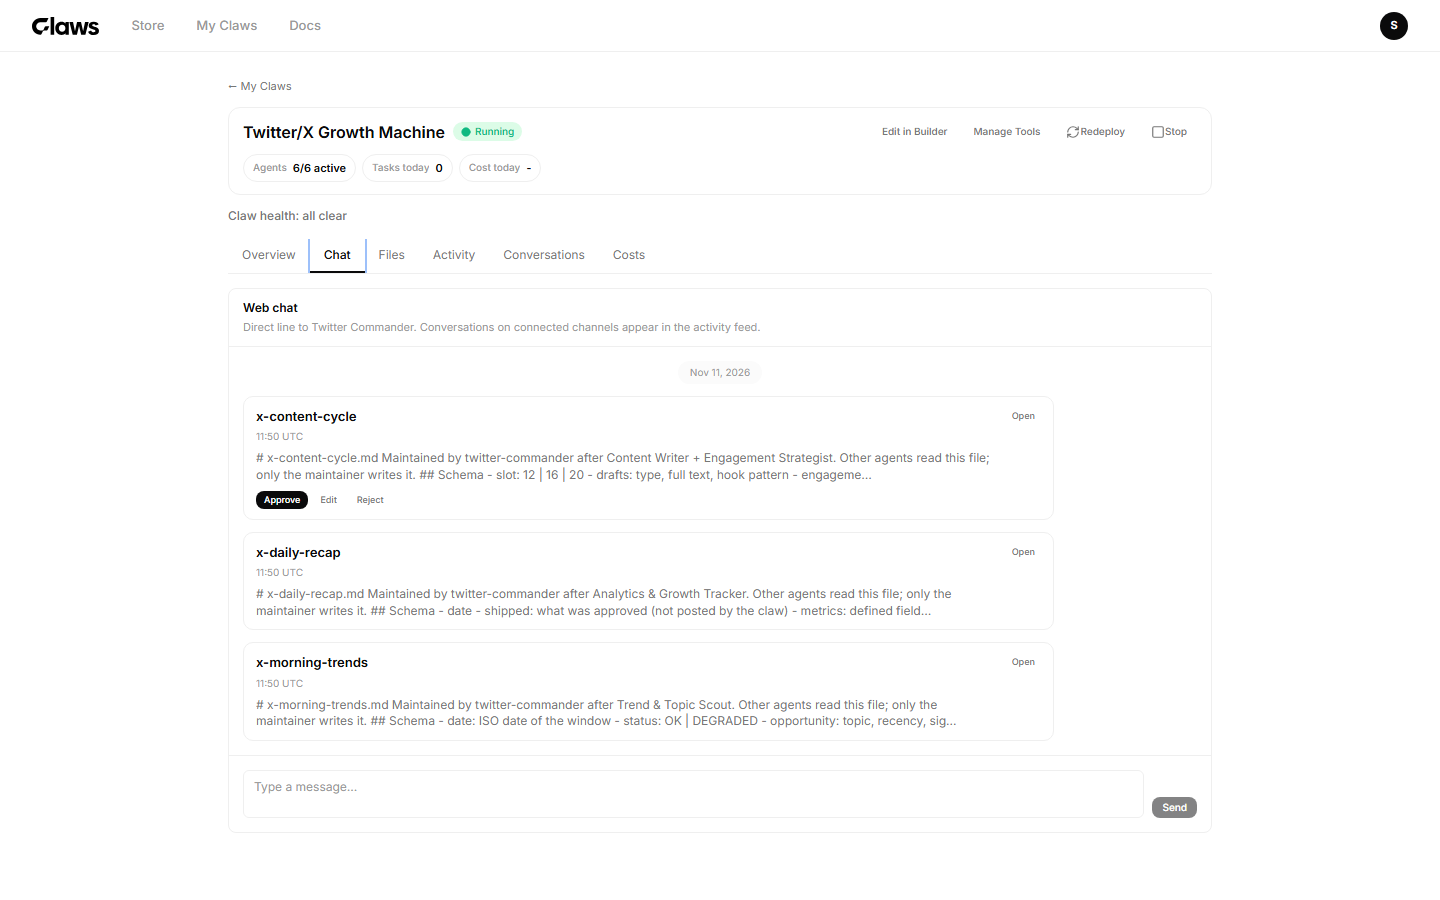
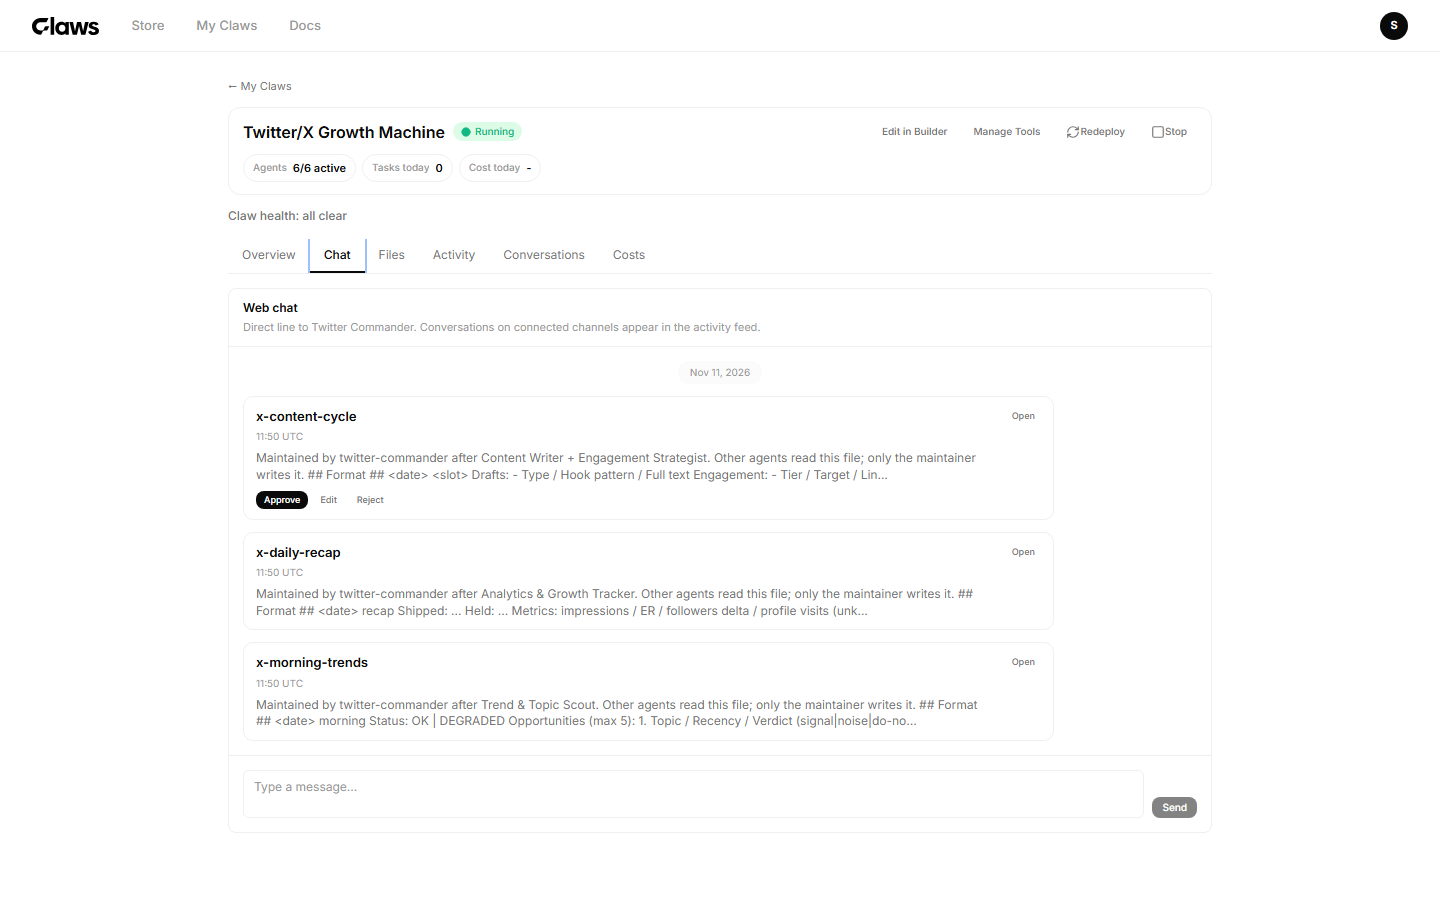
fix(dashboard): preview deliverable cards past the schema block
The card clipped the file from the first line, so the preview was the title and the schema list. Skip that title line and the Schema list, and rebuild the preview from the file body when the card is served, so an older stored preview does not keep the schema.

The new test failed first with the schema header, then passed. History, activity, stream, and run-state tests passed with it (70 tests).

Changed region(s): [[0.1562, 0.4978, 0.6875, 0.56], [0.1562, 0.7778, 0.6875, 0.8089], [0.1562, 0.6533, 0.6875, 0.6844]]

diff --git a/src/lib/activity-log-format.ts b/src/lib/activity-log-format.ts
@@ -1,5 +1,10 @@
 import { sanitizeActivityDetail, sanitizeActivityText } from "@/lib/security/sanitize"
-import { parseDeliverableMetadata } from "@/lib/artifacts/deliverable-kind"
+import {
+  DELIVERABLE_EXTRACT_EVENT_KIND,
+  parseDeliverableMetadata,
+  previewFromContent,
+} from "@/lib/artifacts/deliverable-kind"
+import { prisma } from "@/lib/db"
 
 export interface ActivityLogFormatInput {
   id: string
@@ -77,4 +82,32 @@ export function formatActivityLog(log: ActivityLogFormatInput) {
     toolId,
     sessionKey,
   }
+}
+
+type PreviewRow = {
+  eventKind?: string | null
+  fileVersionId?: string | null
+  preview?: string | null
+}
+
+/** Stored previews were clipped from the title and schema. Cards read the file body instead. */
+export async function withFreshDeliverablePreviews<T extends PreviewRow>(rows: T[]): Promise<T[]> {
+  const ids = [...new Set(
+    rows.flatMap((row) =>
+      row.eventKind === DELIVERABLE_EXTRACT_EVENT_KIND && row.fileVersionId ? [row.fileVersionId] : [],
+    ),
+  )]
+  if (ids.length === 0) return rows
+  const files = await prisma.fileVersion.findMany({
+    where: { id: { in: ids } },
+    select: { id: true, content: true },
+  })
+  if (!Array.isArray(files)) return rows
+  const byId = new Map(files.map((file) => [file.id, file.content]))
+  return rows.map((row) => {
+    if (row.eventKind !== DELIVERABLE_EXTRACT_EVENT_KIND || !row.fileVersionId) return row
+    const content = byId.get(row.fileVersionId)
+    if (typeof content !== "string" || content.length === 0) return row
+    return { ...row, preview: previewFromContent(content) }
+  })
 }

diff --git a/src/app/api/workspaces/[id]/chat/history/__tests__/route.test.ts b/src/app/api/workspaces/[id]/chat/history/__tests__/route.test.ts
@@ -208,6 +208,39 @@ describe("GET /api/workspaces/[id]/chat/history", () => {
     expect(data.data.rows[0].runId).toBe("run-hold")
   })
 
+  it("a deliverable whose body starts with a schema block previews the first non-schema paragraph", async () => {
+    const stored = row({
+      id: "doc-1",
+      action: "Deliverable extracted: x-content-cycle",
+      actionType: "SYSTEM",
+      detail: "shared/deliverables/x-content-cycle.md",
+      metadata: JSON.stringify({
+        eventKind: "deliverable_extracted",
+        fileVersionId: "fv-1",
+        logicalPath: "shared/deliverables/x-content-cycle.md",
+        preview: "# x-content-cycle.md ## Schema - slot: 12 | 16 | 20",
+      }),
+    })
+    ;(prismaMock.activityLog.findMany as ReturnType<typeof vi.fn>).mockResolvedValue([stored] as never)
+    ;(prismaMock.fileVersion.findMany as ReturnType<typeof vi.fn>).mockResolvedValue([
+      {
+        id: "fv-1",
+        content: [
+          "# x-content-cycle.md",
+          "",
+          "## Schema",
+          "- slot: 12 | 16 | 20",
+          "- drafts: type, full text, hook pattern",
+          "",
+          "Friday's cycle is one single and one thread.",
+        ].join("\n"),
+      },
+    ] as never)
+    const { status, data } = await parseResponse(await get())
+    expect(status).toBe(200)
+    expect(data.data.rows[0].preview).toBe("Friday's cycle is one single and one thread.")
+  })
+
   it("400 on an invalid before cursor", async () => {
     const { status, data } = await parseResponse(await get("?before=not-a-cursor"))
     expect(status).toBe(400)

diff --git a/src/lib/artifacts/deliverable-kind.ts b/src/lib/artifacts/deliverable-kind.ts
@@ -32,8 +32,36 @@ export function sidecarPathFor(logicalPath: string): string {
   return `${normalized}.status.json`
 }
 
+const TITLE_LINE = /^#\s+\S/
+const SCHEMA_HEADING = /^##\s+Schema\s*$/i
+
+/** Drop the leading title line and any ## Schema section. The card shows the first content after that. */
+function withoutTitleAndSchema(content: string): string {
+  const lines = content.split(/\r?\n/)
+  let index = 0
+  while (index < lines.length && lines[index].trim() === "") index += 1
+  if (index < lines.length && TITLE_LINE.test(lines[index]) && !lines[index].startsWith("##")) {
+    index += 1
+  }
+  const kept: string[] = []
+  let inSchema = false
+  for (let i = index; i < lines.length; i++) {
+    const trimmed = lines[i].trim()
+    if (SCHEMA_HEADING.test(trimmed)) {
+      inSchema = true
+      continue
+    }
+    if (inSchema) {
+      if (trimmed === "" || trimmed.startsWith("- ") || trimmed.startsWith("* ")) continue
+      inSchema = false
+    }
+    kept.push(lines[i])
+  }
+  return kept.join("\n")
+}
+
 export function previewFromContent(content: string): string {
-  const trimmed = content.replace(/\s+/g, " ").trim()
+  const trimmed = withoutTitleAndSchema(content).replace(/\s+/g, " ").trim()
   if (trimmed.length <= DELIVERABLE_PREVIEW_CHARS) return trimmed
   return `${trimmed.slice(0, DELIVERABLE_PREVIEW_CHARS).trimEnd()}...`
 }

diff --git a/src/app/api/workspaces/[id]/chat/history/route.ts b/src/app/api/workspaces/[id]/chat/history/route.ts
@@ -3,7 +3,7 @@ import { getSessionUser } from "@/lib/api/auth"
 import { verifyWorkspaceOwnership } from "@/lib/api/ownership"
 import { apiError, apiSuccess, ERRORS } from "@/lib/api/response"
 import { prisma } from "@/lib/db"
-import { formatActivityLog, type ActivityLogFormatInput } from "@/lib/activity-log-format"
+import { formatActivityLog, withFreshDeliverablePreviews, type ActivityLogFormatInput } from "@/lib/activity-log-format"
 import { DELIVERABLE_EXTRACT_EVENT_KIND } from "@/lib/artifacts/deliverable-kind"
 import { CHAT_SEND_HELD_EVENT_KIND } from "@/lib/openclaw/chat-send-events"
 
@@ -105,12 +105,13 @@ export async function GET(req: NextRequest, { params }: { params: Promise<{ id: 
   const hasMore = rows.length > limit
   const page = rows.slice(0, limit)
   const oldest = page.at(-1)
+  const formatted = page
+    .slice()
+    .reverse()
+    .map((row) => formatActivityLog(row as ActivityLogFormatInput))
 
   return apiSuccess({
-    rows: page
-      .slice()
-      .reverse()
-      .map((row) => formatActivityLog(row as ActivityLogFormatInput)),
+    rows: await withFreshDeliverablePreviews(formatted),
     nextCursor: hasMore && oldest
       ? encodeCursor({ timestamp: oldest.timestamp.toISOString(), id: oldest.id })
       : null,

diff --git a/src/app/api/activity/[workspaceId]/stream/route.ts b/src/app/api/activity/[workspaceId]/stream/route.ts
@@ -2,7 +2,7 @@ import { NextRequest } from "next/server"
 import { getSessionUser } from "@/lib/api/auth"
 import { verifyWorkspaceOwnership } from "@/lib/api/ownership"
 import { prisma } from "@/lib/db"
-import { formatActivityLog } from "@/lib/activity-log-format"
+import { formatActivityLog, withFreshDeliverablePreviews } from "@/lib/activity-log-format"
 import {
   CHAT_RUN_STATE_STREAM_SCOPE,
   chatRunStateInitWhere,
@@ -56,7 +56,7 @@ export async function GET(
 
       if (initialLogs.length > 0) {
         lastTimestamp = initialLogs[0].timestamp
-        send("init", initialLogs.map(formatLog).reverse())
+        send("init", await withFreshDeliverablePreviews(initialLogs.map(formatLog).reverse()))
       } else {
         send("init", [])
       }
@@ -74,8 +74,9 @@ export async function GET(
           })
           if (newLogs.length > 0) {
             lastTimestamp = newLogs[newLogs.length - 1].timestamp
-            for (const log of newLogs) {
-              send("log", formatLog(log))
+            const fresh = await withFreshDeliverablePreviews(newLogs.map((log) => formatLog(log)))
+            for (const log of fresh) {
+              send("log", log)
             }
           }
         } catch {

diff --git a/src/app/api/activity/[workspaceId]/route.ts b/src/app/api/activity/[workspaceId]/route.ts
@@ -6,7 +6,7 @@ import { verifyWorkspaceOwnership } from "@/lib/api/ownership"
 import { apiSuccess, ERRORS } from "@/lib/api/response"
 import { getApiKeySource } from "@/lib/credits/api-key-source"
 import { hydratePendingApprovals, respondedRequestIds } from "@/lib/artifacts/pending-approvals"
-import { formatActivityLog, type ActivityLogFormatInput } from "@/lib/activity-log-format"
+import { formatActivityLog, withFreshDeliverablePreviews, type ActivityLogFormatInput } from "@/lib/activity-log-format"
 import {
   aggregateAgentCostRow,
   parseCostRange,
@@ -604,6 +604,8 @@ export async function GET(
       nextCursor,
       limit: activityLimit,
     },
-    recentLogs: activityRows.map((log) => formatActivityLog(log as ActivityLogFormatInput)),
+    recentLogs: await withFreshDeliverablePreviews(
+      activityRows.map((log) => formatActivityLog(log as ActivityLogFormatInput)),
+    ),
   })
 }

diff --git a/src/app/api/workspaces/[id]/chat/run-state/route.ts b/src/app/api/workspaces/[id]/chat/run-state/route.ts
@@ -3,7 +3,7 @@ import { getSessionUser } from "@/lib/api/auth"
 import { verifyWorkspaceOwnership } from "@/lib/api/ownership"
 import { ERRORS, apiSuccess } from "@/lib/api/response"
 import { prisma } from "@/lib/db"
-import { formatActivityLog, type ActivityLogFormatInput } from "@/lib/activity-log-format"
+import { formatActivityLog, withFreshDeliverablePreviews, type ActivityLogFormatInput } from "@/lib/activity-log-format"
 import {
   chatRunStateQueryWhere,
   parseRunStateRunIds,
@@ -36,6 +36,8 @@ export async function GET(req: NextRequest, { params }: { params: Promise<{ id: 
   })
 
   return apiSuccess({
-    rows: rows.map((row) => formatActivityLog(row as ActivityLogFormatInput)),
+    rows: await withFreshDeliverablePreviews(
+      rows.map((row) => formatActivityLog(row as ActivityLogFormatInput)),
+    ),
   })
 }

diff --git a/src/lib/artifacts/__tests__/deliverable-kind.test.ts b/src/lib/artifacts/__tests__/deliverable-kind.test.ts
@@ -34,6 +34,19 @@ describe("deliverable kind", () => {
     expect(previewFromContent("x".repeat(300)).endsWith("...")).toBe(true)
   })
 
+  it("a deliverable whose body starts with a schema block previews the first non-schema paragraph", () => {
+    const body = [
+      "# x-content-cycle.md",
+      "",
+      "## Schema",
+      "- slot: 12 | 16 | 20",
+      "- drafts: type, full text, hook pattern",
+      "",
+      "Friday's cycle is one single and one thread.",
+    ].join("\n")
+    expect(previewFromContent(body)).toBe("Friday's cycle is one single and one thread.")
+  })
+
   it("exports title + extract event kind for client card projection", () => {
     expect(titleFromDeliverablePath("shared/deliverables/x-content-cycle.md")).toBe(
       "x-content-cycle",

diff --git a/src/lib/artifacts/pending-approvals.ts b/src/lib/artifacts/pending-approvals.ts
@@ -130,7 +130,7 @@ export async function hydratePendingApprovals(
     const state = states.get(fileVersionId)
     const title = sanitizeActivityText(titleFromDeliverablePath(logicalPath))
     const preview = sanitizeActivityText(
-      meta.preview ?? (fv ? previewFromContent(fv.content) : ""),
+      fv?.content ? previewFromContent(fv.content) : (meta.preview ?? ""),
     )
     out.push({
       id: req.id,
